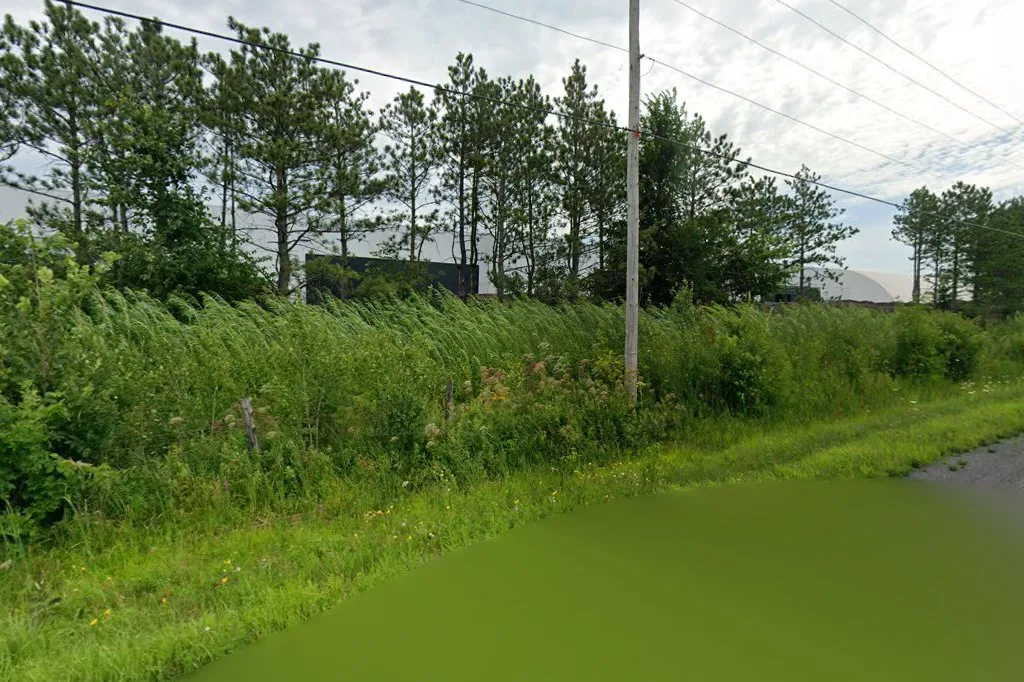
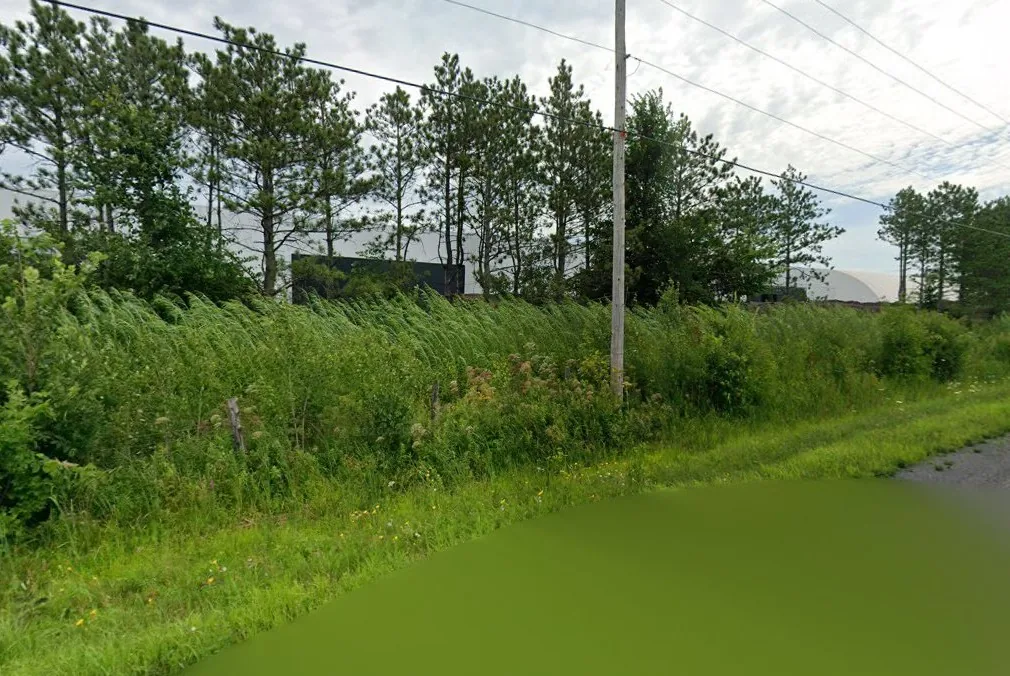
avant/après: recadrage des 2 vues Street View pour aligner poteau/bâtiments/route (décalage 14×6 px) + ratio CSS

diff --git a/v2/css/solutions.css b/v2/css/solutions.css
@@ -878,7 +878,7 @@ a.case-card { text-decoration: none; color: inherit; display: block; }
 .ba-slider {
   position: relative;
   width: 100%;
-  aspect-ratio: 1024 / 682;
+  aspect-ratio: 1010 / 676;
   overflow: hidden;
   border-radius: 14px;
   border: 1px solid rgba(220, 242, 30, 0.16);
